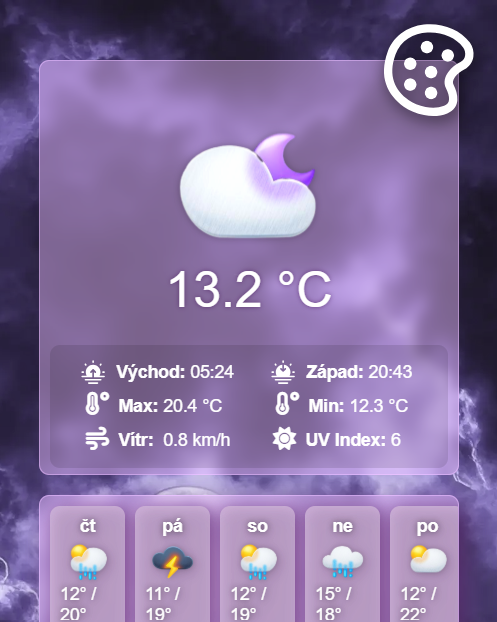
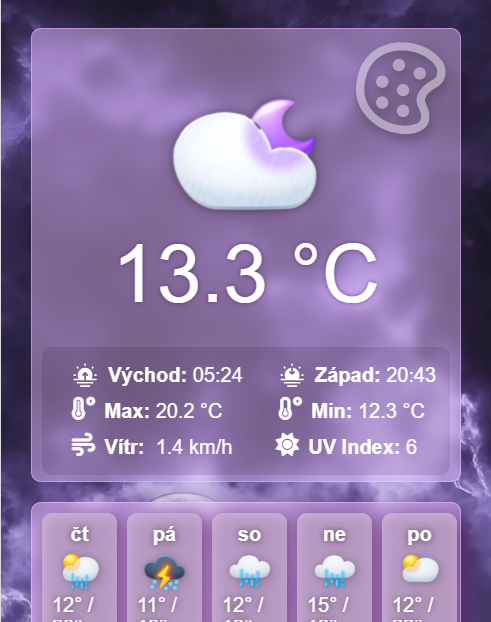
watch ajdustments

Changed region(s): [[0.0, 0.0305, 1.0, 1.0], [0.2444, 0.1527, 0.7637, 0.5193], [0.0, 0.0, 0.0305, 0.0611]]

diff --git a/style.css b/style.css
@@ -834,23 +834,29 @@ footer .source {
         display: none;
     }
 
-    .main {
+    main {
         padding: 0.5rem;
     }
 
     .watch-color-label {
-    display: flex;
-    position: absolute;
-    top: 1.5rem;
-    right: 1.5rem;
-    z-index: 900;
-}
+        display: flex;
+        position: absolute;
+        top: 2rem;
+        right: 2rem;
+        z-index: 900;
+        opacity: 0.4;
+    }
+
+   .watch-color-label:hovrt,
+      .watch-color-label:active {
+        opacity: 1;
+      }
 
     .icon {
         height: 5rem;
         width: auto;
-        filter: drop-shadow(2px 4px 6px var(--shadows));
-        background-color: var(--shadows);
+        filter: drop-shadow(2px 4px 4px var(--shadows));
+        backdrop-filter: drop-shadow(2px 4px 6px black);
         border-radius: 50%;
     }
 
@@ -873,8 +879,21 @@ footer .source {
         display: none;
     }
 
+    .current-temp {
+        font-size: 4rem;
+    }
+
+    .weather-details p {
+            padding: 0.2rem 0.3rem 2.2rem 0rem;
+            font-size: 1rem;
+    }
+
     .forecast-5-day-wrapper, .forecast-24h-wrapper {
         margin-top: 1rem;
+    }
+
+    .forecast-item p {
+        font-size: 1rem;
     }
 
     footer {
